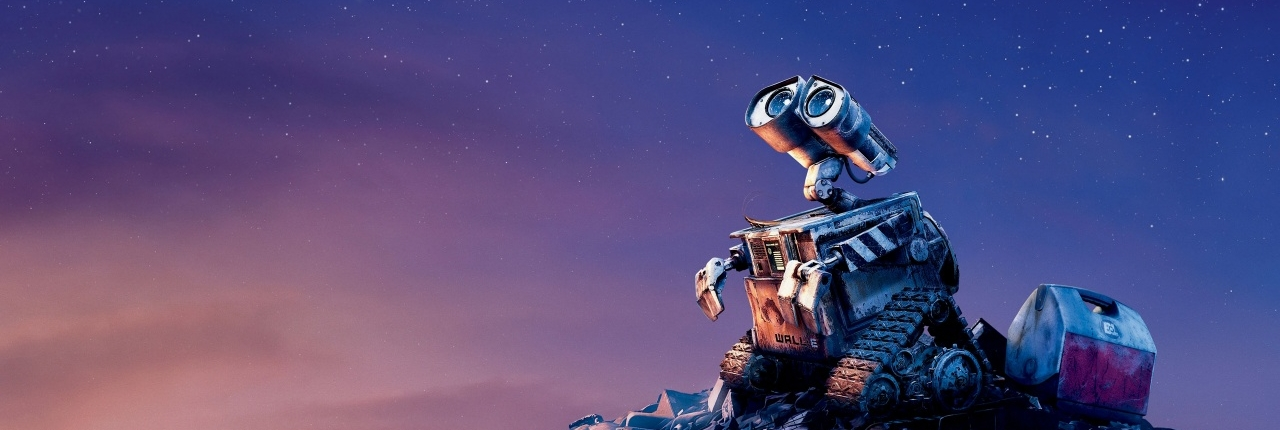
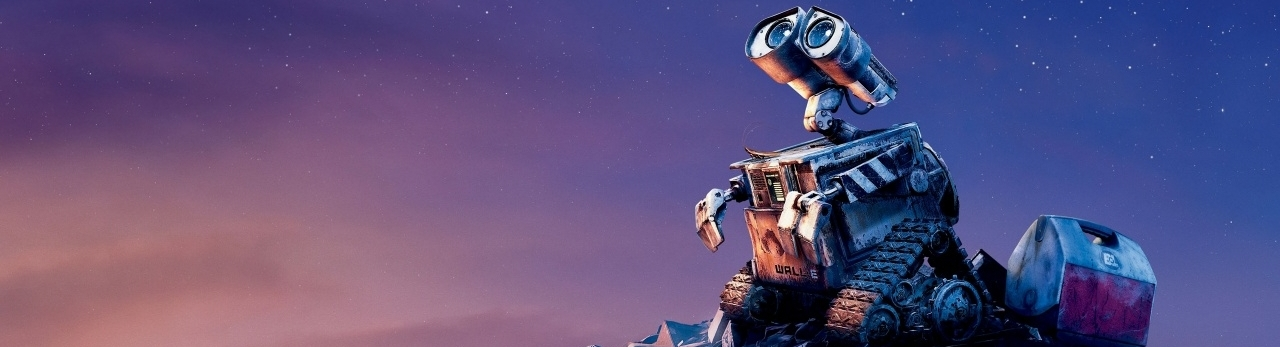
Adding content

diff --git a/index.html b/index.html
@@ -5,5 +5,5 @@
 layout: home
 author_profile: true
 header:
-  image: /assets/images/crocker.jpeg
+  image: /assets/images/wall_e.jpg
 ---

diff --git a/_pages/volunteer.md b/_pages/volunteer.md
@@ -3,11 +3,11 @@ permalink: /volunteer/
 title: "Volunteer Work"
 ---
 
-# Volunteer Positions
+## Volunteer Positions
 * Research Lead at [1Day Africa](https://1dayafrica.org/about-1day-africa "1Day Africa"), 2021
 * Volunteer Organiser at [1Day Sooner](https://www.1daysooner.org/team "1Day Sooner"), 2020-2021
 
-# Opinion Editorials
+## Opinion Editorials
 * [African countries need to be involved in Covid-19 human challenge vaccine trials](https://www.dailymaverick.co.za/opinionista/2020-12-16-african-countries-need-to-be-involved-in-covid-19-human-challenge-vaccine-trials/ "Op-Ed")
 
 # Talks and Panels
